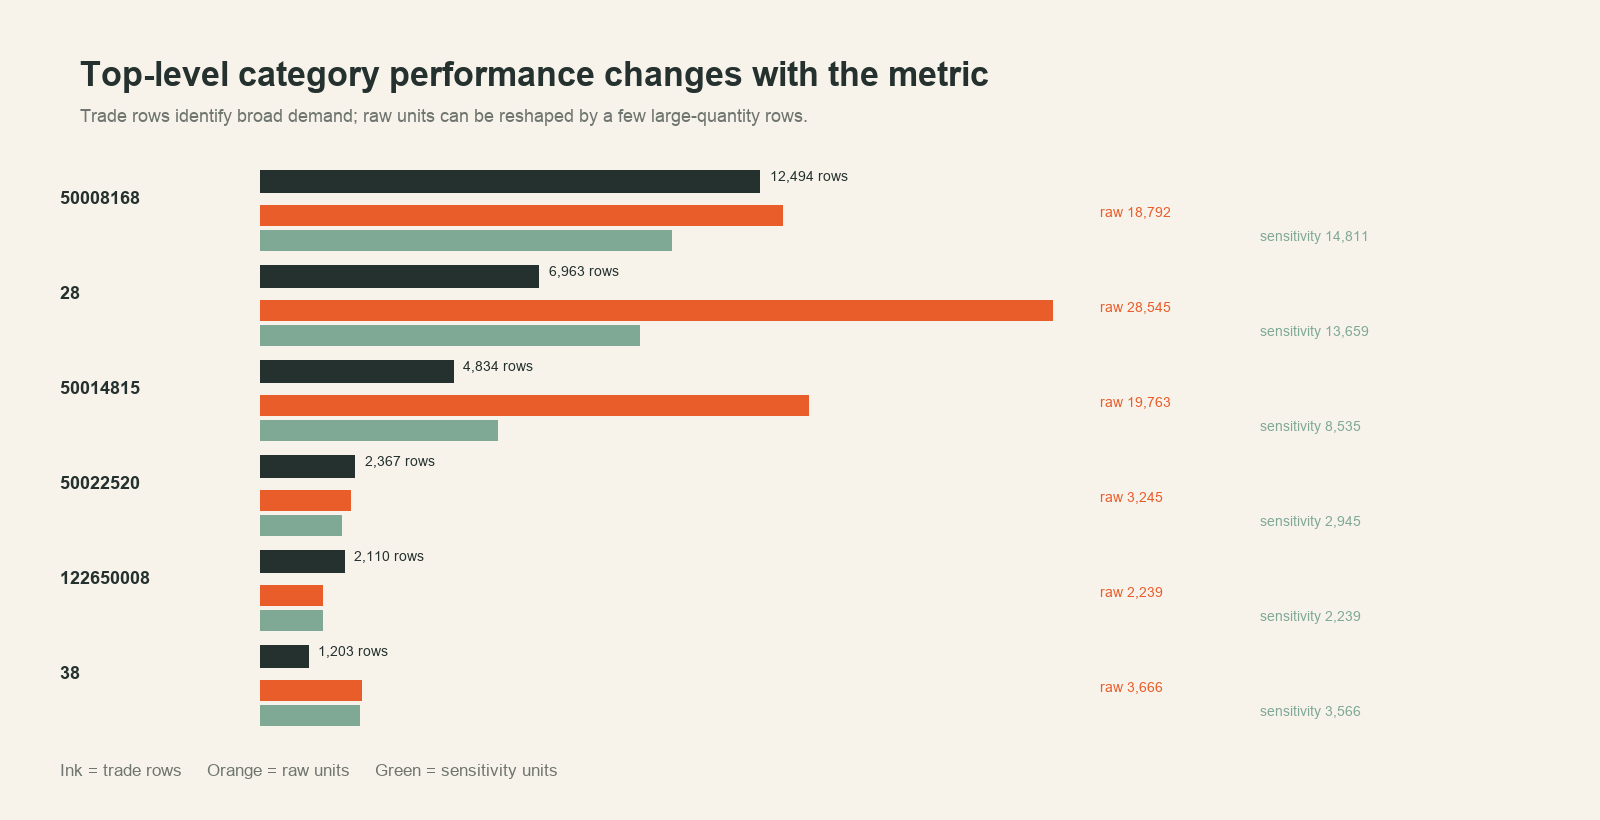
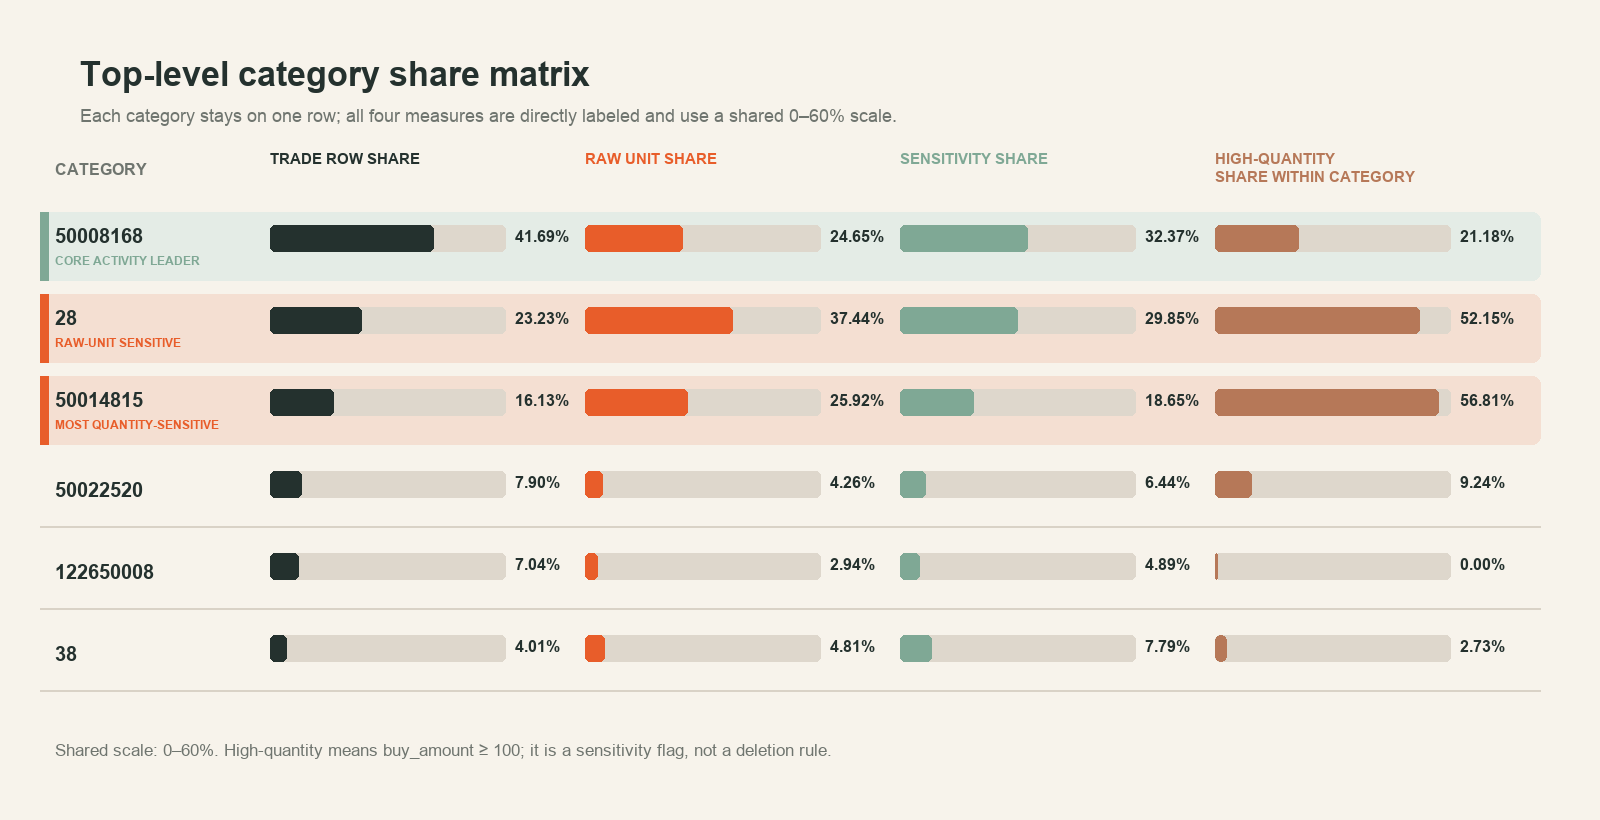
report

diff --git a/docs/04_final_analysis_report.md b/docs/04_final_analysis_report.md
@@ -159,8 +159,19 @@ units, while retaining raw units as an auditable secondary view.
 
 ![一级品类指标对比](../assets/figures/03_category_comparison.png)
 
-*图3：按交易记录、原始件数和敏感性件数比较六个一级品类。 / Figure 3.
-Top-level categories under three metrics.*
+*图3：一级品类份额矩阵。每一行固定代表一个 `cat1`，四列依次展示交易记录占比、
+原始件数占比、敏感性件数占比和品类内部高数量件数占比，所有条形采用统一的
+0–60%刻度。 / Figure 3. Top-level category share matrix using a shared 0–60%
+scale across four directly labeled measures.*
+
+绿色重点行标出交易覆盖最广的核心品类 `50008168`；橙色重点行标出原始件数受
+高数量记录影响最明显的 `28` 和 `50014815`。其余三个品类使用水平分隔线保留
+完整比较背景，但不与核心发现争夺视觉注意力。
+
+The green focus row marks the core activity leader, while orange focus rows
+mark the two categories most affected by high quantities. Neutral separator
+lines keep the remaining categories easy to follow without competing with the
+main findings.
 
 `50008168` 贡献 41.69% 的交易记录和 32.37% 的敏感性件数，是覆盖最广、表现
 最稳定的一级品类。`28` 和 `50014815` 的高数量件数分别占自身原始件数的